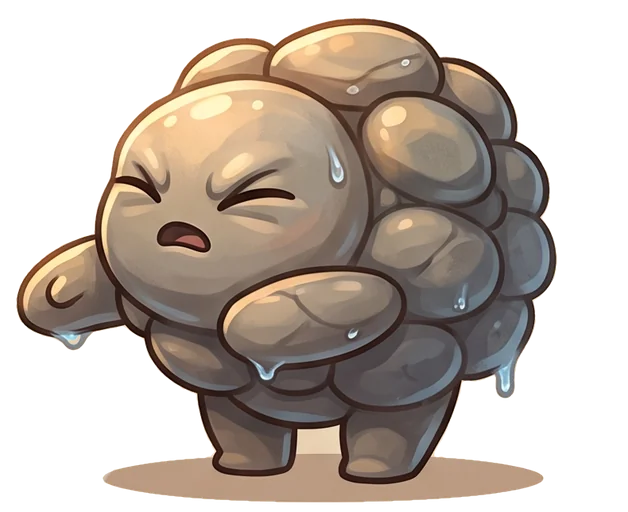
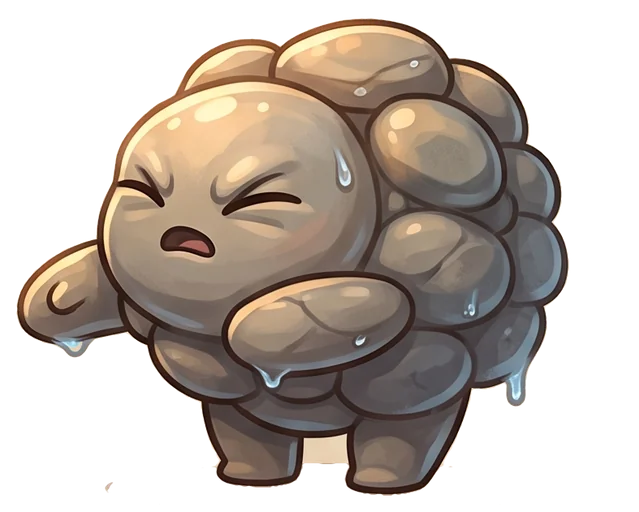
fix(아트): 자갈깨비 발밑 그림자 제거
색조·밝기로는 못 가른다 — 돌 몬스터는 몸의 밝은 면이 같은 띠에 들어와
2만 픽셀이 함께 지워진다(실측). 대신 그림자만의 성질을 쓴다:
**아래쪽에 넓게 깔린 단일색**. 그림자 (187,157,133) 과 다리 (131,109,93) 는
거리 144 라 안전하게 갈린다.

Claude-Session: https://claude.ai/code/session_019feDqK65JZoGFst1VShvSB

diff --git a/tool/import_monsters.py b/tool/import_monsters.py
@@ -59,6 +59,11 @@ SAME_THRESH = {'rock': 0, 'pebble': 0}
 # 돌은 배경과 색조까지 같아서 몸이 통째로 그림자로 잡힌다.
 SHADOW_OFF = {'rock', 'pebble'}
 
+# 그림자 규칙을 끈 종은 발밑 타원이 남는다. 자갈깨비가 그렇다.
+# 그 타원은 **완전히 균일한 한 가지 색**이고, 발·다리는 훨씬 어둡다
+# (그림자 187,157,133 vs 다리 131,109,93 — 거리 144). 색 하나로 가른다.
+FLAT_SHADOW = {'pebble'}
+
 # basalt 시트만 액자형 회색 패널 위에 그려져 있다 — 흰 여백에서 패널로
 # 이어 흘려보내야 해서 문턱을 크게 잡는다(몸은 훨씬 어두워 거기서 멈춘다).
 FLOOD_THRESH = {
@@ -116,6 +121,30 @@ def bg_like(a, bg, same_thresh=40, shadow=True):
     if not shadow:
         shade = np.zeros(same.shape, bool)
     return same | shade
+
+
+def flat_shadow(a, keep, band=0.30, tol=8, min_area=3000):
+    """발밑의 **균일한 한 색** 타원을 찾아 지운다.
+
+    색조·밝기로는 못 가른다 — 돌 몬스터는 몸의 밝은 면이 같은 띠에 들어와
+    2만 픽셀이 함께 지워졌다. 대신 "아래쪽에 넓게 깔린 단일색"이라는
+    그림자만의 성질을 쓴다.
+    """
+    h, w, _ = a.shape
+    y0 = int(h * (1 - band))
+    sub = a[y0:]
+    m = keep[y0:]
+    if m.sum() < min_area:
+        return np.zeros(keep.shape, bool)
+    vals, counts = np.unique(
+        sub[m].reshape(-1, 3) // 4, axis=0, return_counts=True
+    )
+    modal = vals[counts.argmax()] * 4 + 2
+    if counts.max() < min_area:
+        return np.zeros(keep.shape, bool)
+    out = np.zeros(keep.shape, bool)
+    out[y0:] = (np.abs(sub - modal).sum(axis=2) < tol * 3) & m
+    return out
 
 
 def keep_big_islands(mask, frac=0.05, grid=192):
@@ -181,6 +210,8 @@ def cut(path, mid):
         a = np.array(q).astype(int)
         keep &= ~bg_like(a, bg_of(a), SAME_THRESH.get(mid, 40),
                          shadow=mid not in SHADOW_OFF)
+        if mid in FLAT_SHADOW:
+            keep &= ~flat_shadow(a, keep)
         if mid in DROP_ISLANDS:
             keep = keep_big_islands(keep)
         alpha = Image.fromarray(np.where(keep, 255, 0).astype(np.uint8), 'L')
